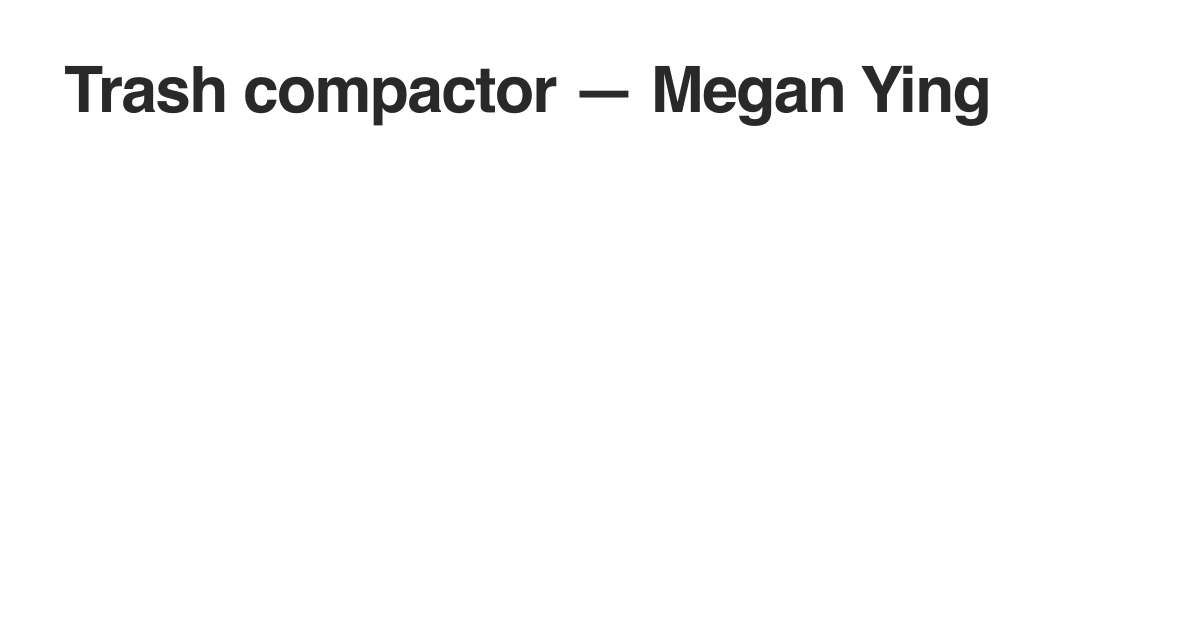
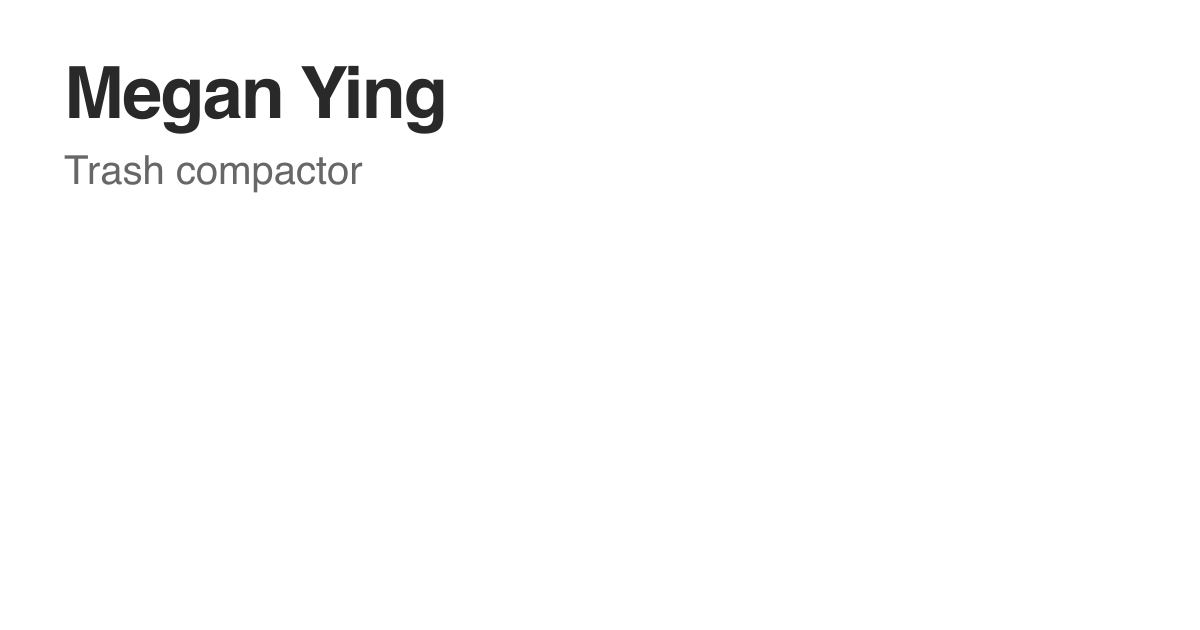
Restore preview artwork and correct link captions

Changed region(s): [[0.0308, 0.0905, 0.8325, 0.2111], [0.0617, 0.2413, 0.3083, 0.3016]]

diff --git a/lib/site.ts b/lib/site.ts
@@ -14,7 +14,7 @@ export const site = {
 };
 
 export function pageTitle(title: string) {
-  return title === site.name ? site.name : `${title} — ${site.name}`;
+  return title === site.name ? site.name : `${title} - ${site.name}`;
 }
 
 export function projectPreviewImage(project: Pick<Project, "slug" | "title">) {
@@ -33,7 +33,7 @@ export function pageMetadata(
 ): Metadata {
   const fullTitle = pageTitle(title);
   return {
-    title: title === site.name ? { absolute: site.name } : title,
+    title: { absolute: fullTitle },
     description,
     alternates: { canonical: path },
     openGraph: {

diff --git a/README.md b/README.md
@@ -54,7 +54,7 @@ The presentation viewer retains its buttons, arrow-key navigation, live slide co
 
 ## Link preview and icons
 
-All link previews are 1200 × 630 px with a single heading in the upper-left corner, using the site’s charcoal sans-serif type on white. The homepage preview at `public/assets/photos/portfolio-preview.png` displays only “Megan Ying”. Each project has its own preview at `public/assets/photos/previews/<slug>.png`, with the same title as its browser tab, such as “Battery door — Megan Ying”. Browser tab titles, Open Graph and Twitter titles, and preview alt text use the same formatter in `lib/site.ts`.
+All link preview images are 1200 × 630 px with “Megan Ying” in the upper-left corner, using the site’s charcoal sans-serif type on white. The homepage preview at `public/assets/photos/portfolio-preview.png` displays only the name. Each project has its own preview at `public/assets/photos/previews/<slug>.png`, with its title below the name in muted gray. The link caption beneath the image uses the full browser tab title, such as “Battery door - Megan Ying”. Current and legacy project links include the same full title in their Open Graph and Twitter metadata.
 
 Next.js adds the browser and home-screen icon metadata from `app/icon.svg`, `app/favicon.ico`, and `app/apple-icon.png`. The ICO includes 16, 32, and 48 px fallbacks; the Apple icon is 180 × 180 px. SVG and Apple icon URLs receive Next.js-generated fingerprints.
 
